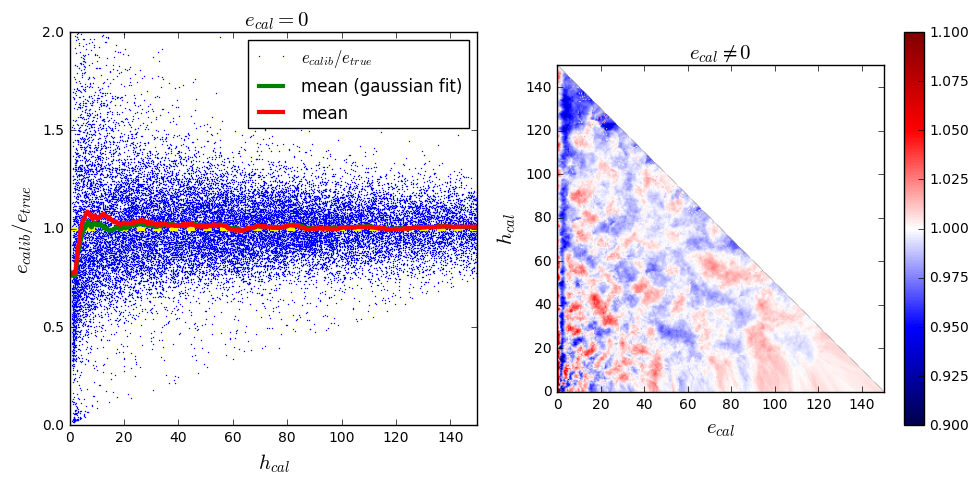
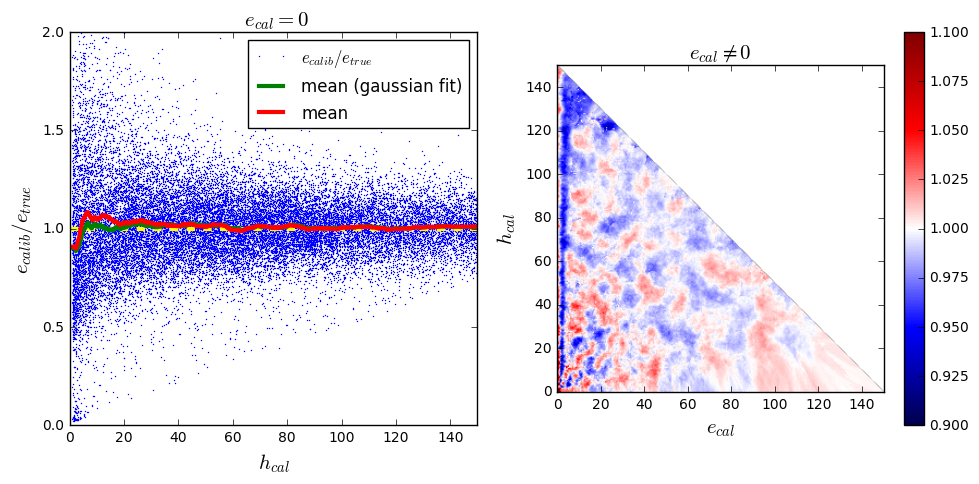
energy step

diff --git a/README.md b/README.md
@@ -48,12 +48,15 @@ data1,data2 = data1.splitInTwo()
 # parameters of the calibration
 lim = 150                   # if ecal + hcal > lim, ecalib = math.nan
 n_neighbors_ecal_eq_0=2000  # number of neighbors for ecal = 0
-n_neighbors_ecal_neq_0=500  # number of neighbors for ecal ≠ 0
-energystep = 1
+n_neighbors_ecal_neq_0=250  # number of neighbors for ecal ≠ 0
+energystep_ecal_eq_0 = 1
+energystep_ecal_neq_0 = 5
+
 # We create the calibration
-calibration = data1.KNNGaussianFit(n_neighbors_ecal_eq_0=n_neighbors_ecal_eq_0,
+KNNGF = data1.KNNGaussianFit(n_neighbors_ecal_eq_0=n_neighbors_ecal_eq_0,
                              n_neighbors_ecal_neq_0=n_neighbors_ecal_neq_0,
-                             lim=lim,energystep=energystep,kind='cubic')
+                             lim=lim,energystep_ecal_eq_0=energystep_ecal_eq_0,energystep_ecal_neq_0=energystep_ecal_neq_0,kind='cubic')
+
 ```
 
 ## To use a calibration

diff --git a/index.md b/index.md
@@ -48,12 +48,15 @@ data1,data2 = data1.splitInTwo()
 # parameters of the calibration
 lim = 150                   # if ecal + hcal > lim, ecalib = math.nan
 n_neighbors_ecal_eq_0=2000  # number of neighbors for ecal = 0
-n_neighbors_ecal_neq_0=500  # number of neighbors for ecal ≠ 0
-energystep = 1
+n_neighbors_ecal_neq_0=250  # number of neighbors for ecal ≠ 0
+energystep_ecal_eq_0 = 1
+energystep_ecal_neq_0 = 5
+
 # We create the calibration
-calibration = data1.KNNGaussianFit(n_neighbors_ecal_eq_0=n_neighbors_ecal_eq_0,
+KNNGF = data1.KNNGaussianFit(n_neighbors_ecal_eq_0=n_neighbors_ecal_eq_0,
                              n_neighbors_ecal_neq_0=n_neighbors_ecal_neq_0,
-                             lim=lim,energystep=energystep,kind='cubic')
+                             lim=lim,energystep_ecal_eq_0=energystep_ecal_eq_0,energystep_ecal_neq_0=energystep_ecal_neq_0,kind='cubic')
+
 ```
 
 ## To use a calibration
